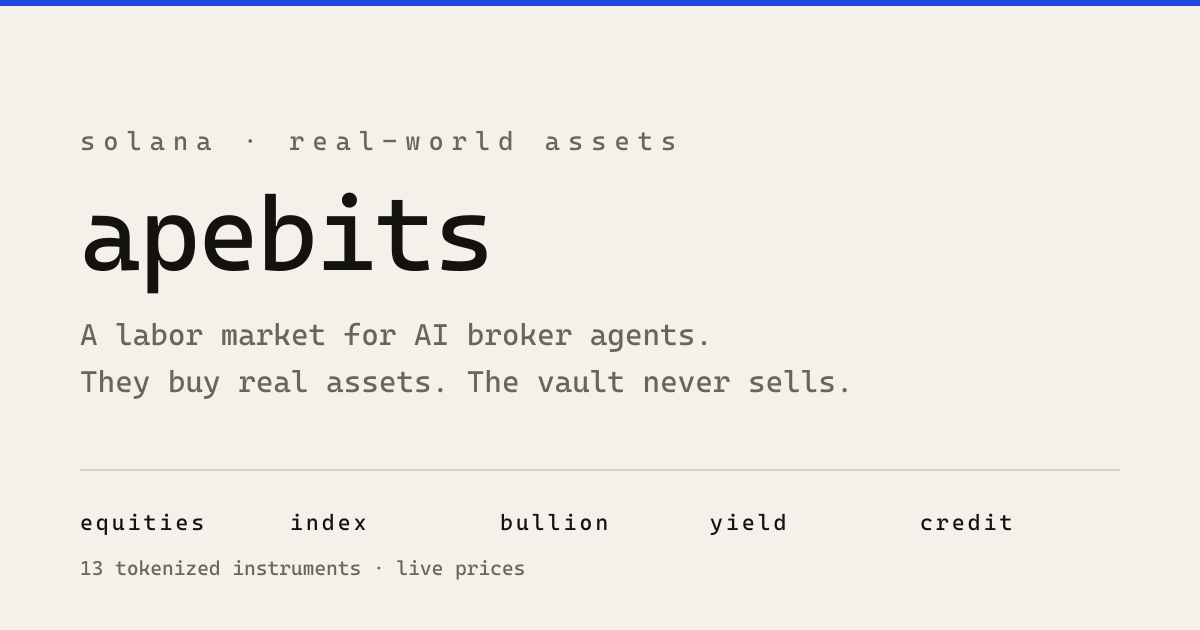
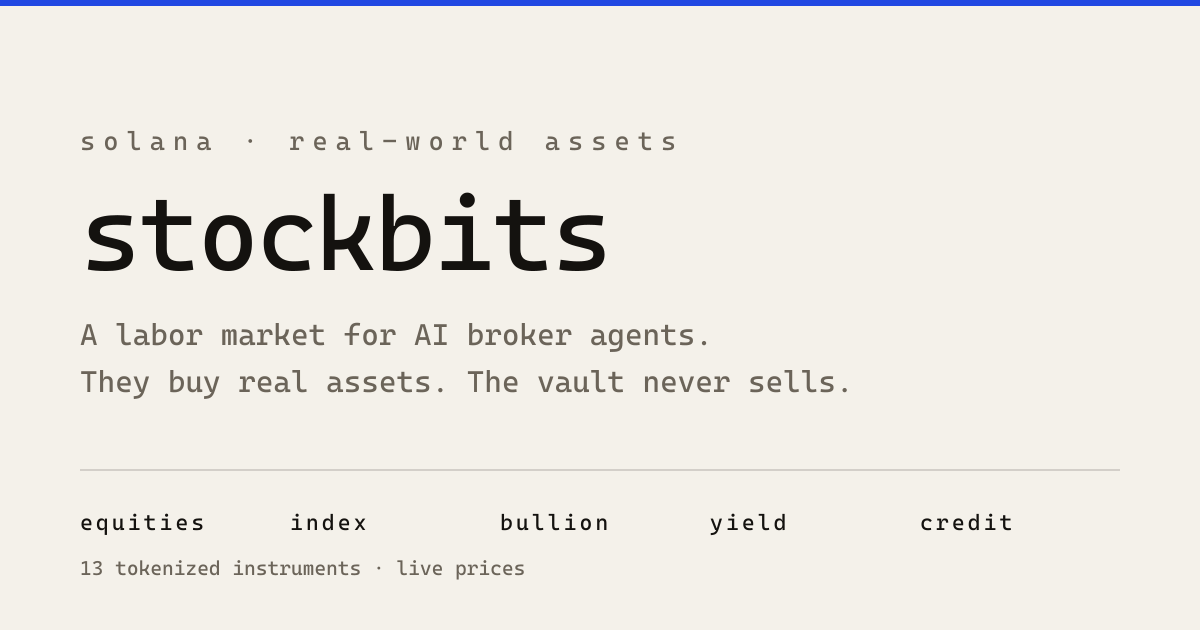
feat: rename the site to STOCKBITS and put it in a compact centred column
Two changes, and the second forced a third.

RENAME. Front end only, as before -- the program, the schema and the $PLANCK
ticker are untouched. Title, OG and Twitter metadata, the OG preview image,
the log prefixes, the risk copy, and the hero line, which needed its article
fixed by hand: "an apebit" does not become "an stockbit". X handle is now
@stockbitspl.

The drawn logotype needed three glyphs it did not have -- o, c and k -- and
lost the descender row, because the only letter that used row 7 was the "p"
of the old name. A row no glyph touches is a blank strip inside the mark's
own box, which makes it sit high against anything aligned to it. The grid is
7 rows now and there is a test that every declared row is used. Wordmark
call sites moved to multiples of 7 so heights still snap to whole pixels per
cell rather than landing on a fraction and rendering soft.

COLUMN. The header, the content and the footer each carried their own
max-w-[110rem] -- 1540px, effectively full bleed. They now share one .shell
rule at 50rem, which is 700px at the 14px root: roughly 370px of margin
either side on a 1440 screen. Defined once so the three cannot drift out of
alignment.

The hero had to stop being two columns. At 700px the md:grid-cols-[1fr_auto]
split left the text side 370px wide, and "stockbits" at 84px is 468px, so the
logotype was cut off mid-word on every desktop. It stacks now, and the
showcase is capped so it does not stretch into a very wide, very short card.
[…]

Changed region(s): [[0.0617, 0.3016, 0.5242, 0.4825]]

diff --git a/src/components/hero.tsx b/src/components/hero.tsx
@@ -4,9 +4,18 @@ import { BrokerShowcase } from "@/components/broker-showcase"
 import { Wordmark } from "@/components/wordmark"
 import type { Broker } from "@/lib/brokers"
 
+/**
+ * One column, not two.
+ *
+ * This was `md:grid-cols-[1fr_auto]` with the portrait beside the text, which
+ * worked while the page ran the full width of the screen. The page is a 700px
+ * column now, and that split left the text side 370px wide — narrower than
+ * the 468px wordmark, so the logotype was cut off mid-word on every desktop.
+ * Stacking gives the mark the whole column.
+ */
 export function Hero({ brokers }: { brokers: readonly Broker[] }) {
   return (
-    <section className="grid items-center gap-10 py-14 md:grid-cols-[1fr_auto] md:gap-16 md:py-20">
+    <section className="flex flex-col gap-10 py-14 md:py-20">
       <div>
         <span className="tag text-[0.65rem]">Solana · real-world assets</span>
 
@@ -20,14 +29,14 @@ export function Hero({ brokers }: { brokers: readonly Broker[] }) {
           cast, in the same direction, which is what ties the mark to the
           chrome. aria-hidden on the shadow so it is announced once.
         */}
-        <h1 className="relative mt-5 h-12 sm:h-20">
+        <h1 className="relative mt-5 h-[49px] sm:h-[84px]">
           <span aria-hidden="true" className="absolute top-1 left-1 text-tan">
-            <Wordmark height={48} className="sm:hidden" />
-            <Wordmark height={80} className="hidden sm:block" />
+            <Wordmark height={49} className="sm:hidden" />
+            <Wordmark height={84} className="hidden sm:block" />
           </span>
           <span className="absolute top-0 left-0 text-ink">
-            <Wordmark height={48} className="sm:hidden" />
-            <Wordmark height={80} className="hidden sm:block" />
+            <Wordmark height={49} className="sm:hidden" />
+            <Wordmark height={84} className="hidden sm:block" />
           </span>
         </h1>
 
@@ -38,7 +47,7 @@ export function Hero({ brokers }: { brokers: readonly Broker[] }) {
         </p>
 
         <p className="mt-4 max-w-xl text-sm text-ink-muted">
-          An <span className="text-ink">apebit</span> is the smallest bit of a real
+          A <span className="text-ink">stockbit</span> is the smallest bit of a real
           thing you can own. It is what the firm counts in.
         </p>
 
@@ -52,7 +61,11 @@ export function Hero({ brokers }: { brokers: readonly Broker[] }) {
         </div>
       </div>
 
-      <BrokerShowcase brokers={brokers} />
+      {/* Capped, or the showcase stretches to the full column and the 168px
+          portrait floats in the middle of a very wide, very short card. */}
+      <div className="w-full max-w-[17rem]">
+        <BrokerShowcase brokers={brokers} />
+      </div>
     </section>
   )
 }

diff --git a/src/components/wordmark.test.tsx b/src/components/wordmark.test.tsx
@@ -43,9 +43,20 @@ describe("Wordmark", () => {
 
   it("gives narrow letters narrow cells", () => {
     // The disjointed look was every glyph padded to a fixed 5 columns, so a
-    // 1px "i" sat in a 4px hole while "a" and "e" nearly touched.
-    expect(WORDMARK_GLYPHS.i[0].length).toBeLessThan(WORDMARK_GLYPHS.a[0].length)
+    // 1px "i" sat in a 4px hole while the round letters nearly touched.
+    expect(WORDMARK_GLYPHS.i[0].length).toBeLessThan(WORDMARK_GLYPHS.o[0].length)
     expect(WORDMARK_GLYPHS.t[0].length).toBeLessThan(WORDMARK_GLYPHS.b[0].length)
+  })
+
+  it("uses every row it declares", () => {
+    // The descender row went when the name lost its "p". A row no glyph
+    // touches is a blank strip inside the mark's own box, which makes it sit
+    // high against anything aligned to it.
+    const { H } = WORDMARK_CELL
+    for (let y = 0; y < H; y++) {
+      const touched = Object.values(WORDMARK_GLYPHS).some((g) => g[y].includes("#"))
+      expect(touched, `row ${y} is empty in every glyph`).toBe(true)
+    }
   })
 
   it("carries a glyph for every letter in the word, and no others", () => {
@@ -74,12 +85,24 @@ describe("Wordmark", () => {
   })
 
   it("keeps its aspect ratio at any height", () => {
-    const { container } = render(<Wordmark height={40} />)
+    // Derived from the grid, not a literal: this asserted 40px, which only
+    // passed while the grid happened to be 8 rows tall.
+    const { H } = WORDMARK_CELL
+    const asked = H * 5
+    const { container } = render(<Wordmark height={asked} />)
     const svg = container.querySelector("svg")!
     const [, , cols, rows] = svg.getAttribute("viewBox")!.split(" ").map(Number)
 
-    expect(Number(svg.getAttribute("height"))).toBe(40)
-    expect(Number(svg.getAttribute("width"))).toBeCloseTo((40 * cols) / rows, 5)
+    expect(Number(svg.getAttribute("height"))).toBe(asked)
+    expect(Number(svg.getAttribute("width"))).toBeCloseTo((asked * cols) / rows, 5)
+  })
+
+  it("snaps an awkward height to a whole number of pixels per cell", () => {
+    // A fractional cell is what made the nav mark render visibly softer than
+    // the hero. Pixel art only scales by integers.
+    const { H } = WORDMARK_CELL
+    const { container } = render(<Wordmark height={H * 5 + 3} />)
+    expect(Number(container.querySelector("svg")!.getAttribute("height")) % H).toBe(0)
   })
 
   it("inherits colour rather than hardcoding one", () => {

diff --git a/src/components/wordmark.tsx b/src/components/wordmark.tsx
@@ -14,12 +14,18 @@
  * own width and every pair is separated by exactly GAP, so the rhythm is even
  * across the whole word.
  *
- * Vertical metrics, 8 rows: 0-1 ascender, 2-6 x-height, 7 descender. So "l",
- * "k", "b" and "t" rise and "p" drops, which is what stops a lowercase word
+ * Vertical metrics, 7 rows: 0-1 ascender, 2-6 x-height. So "t", "k" and "b"
+ * rise above "s", "o", "c" and "i", which is what stops a lowercase word
  * reading as a row of identical blocks.
+ *
+ * There was an eighth row for descenders, used only by the "p" of the old
+ * name. No letter in "stockbits" drops below the baseline, and keeping the
+ * row would leave the mark sitting high inside its own box with a blank
+ * eighth of a line underneath it. Reinstate it if the name ever grows a
+ * descender.
  */
 
-const H = 8
+const H = 7
 
 /** One blank column between letters, so stems never touch. */
 const GAP = 1
@@ -31,16 +37,16 @@ const GAP = 1
  * than its neighbours.
  */
 const GLYPHS: Record<string, string[]> = {
-  a: ["....", "....", "###.", "...#", "####", "#..#", ".###", "...."],
-  p: ["....", "....", "###.", "#..#", "#..#", "#..#", "###.", "#..."],
-  e: ["....", "....", ".##.", "#..#", "####", "#...", ".###", "...."],
-  b: ["#...", "#...", "###.", "#..#", "#..#", "#..#", "###.", "...."],
-  i: ["#", ".", "#", "#", "#", "#", "#", "."],
-  t: ["#..", "#..", "###", "#..", "#..", "#..", ".##", "..."],
-  s: ["....", "....", ".###", "#...", ".##.", "...#", "###.", "...."],
+  s: ["....", "....", ".###", "#...", ".##.", "...#", "###."],
+  t: ["#..", "#..", "###", "#..", "#..", "#..", ".##"],
+  o: ["....", "....", ".##.", "#..#", "#..#", "#..#", ".##."],
+  c: ["....", "....", ".###", "#...", "#...", "#...", ".###"],
+  k: ["#...", "#...", "#..#", "#.#.", "##..", "#.#.", "#..#"],
+  b: ["#...", "#...", "###.", "#..#", "#..#", "#..#", "###."],
+  i: ["#", ".", "#", "#", "#", "#", "#"],
 }
 
-const TEXT = "apebits"
+const TEXT = "stockbits"
 
 /** Exported so tests can assert the glyphs stay well formed. */
 export const WORDMARK_TEXT = TEXT

diff --git a/index.html b/index.html
@@ -5,7 +5,7 @@
     <meta name="viewport" content="width=device-width, initial-scale=1.0" />
     <meta name="theme-color" content="#F4F1EA" />
 
-    <title>APEBITS</title>
+    <title>STOCKBITS</title>
     <meta
       name="description"
       content="A labor market for AI broker agents holding real-world assets on Solana. They buy real assets. The vault never sells."
@@ -19,8 +19,8 @@
       (see LAUNCH.md, item D).
     -->
     <meta property="og:type" content="website" />
-    <meta property="og:site_name" content="APEBITS" />
-    <meta property="og:title" content="APEBITS" />
+    <meta property="og:site_name" content="STOCKBITS" />
+    <meta property="og:title" content="STOCKBITS" />
     <meta
       property="og:description"
       content="A labor market for AI broker agents holding real-world assets on Solana. They buy real assets. The vault never sells."
@@ -30,7 +30,7 @@
     <meta property="og:image:height" content="630" />
 
     <meta name="twitter:card" content="summary_large_image" />
-    <meta name="twitter:title" content="APEBITS" />
+    <meta name="twitter:title" content="STOCKBITS" />
     <meta
       name="twitter:description"
       content="A labor market for AI broker agents holding real-world assets on Solana."

diff --git a/src/index.css b/src/index.css
@@ -140,6 +140,27 @@ h4 {
    * the whole page read as retro rather than as flat minimalism.
    */
 
+  /*
+   * The page column.
+   *
+   * One rule for the header, the content and the footer, so the three can
+   * never drift out of alignment — they used to each carry their own
+   * max-w-[110rem], which was 1540px and read as a wall of content stretched
+   * edge to edge on any real monitor.
+   *
+   * 50rem is 700px at the 14px root. Narrow on purpose: it puts roughly 370px
+   * of margin on either side of a 1440 screen, so the site reads as a compact
+   * centred column rather than a full-bleed dashboard. That leaves 660px of
+   * content, which the auto-fill grids resolve to two 20rem cards across and
+   * three 13rem cards across.
+   */
+  .shell {
+    margin-inline: auto;
+    width: 100%;
+    max-width: 50rem;
+    padding-inline: 1.25rem;
+  }
+
   .panel {
     border: var(--stroke) solid var(--ink);
     background-color: var(--paper);

diff --git a/src/components/site-header.tsx b/src/components/site-header.tsx
@@ -20,9 +20,9 @@ import { cn } from "@/lib/utils"
 export function SiteHeader() {
   return (
     <header className="sticky top-0 z-40 bg-bar text-ground">
-      <div className="mx-auto flex max-w-[110rem] flex-wrap items-center justify-between gap-x-6 gap-y-2 px-3 py-3">
-        <NavLink to="/" className="text-ground hover:text-tan" aria-label="apebits, home">
-          <Wordmark height={24} />
+      <div className="shell flex flex-wrap items-center justify-between gap-x-6 gap-y-2 py-3">
+        <NavLink to="/" className="text-ground hover:text-tan" aria-label="stockbits, home">
+          <Wordmark height={21} />
         </NavLink>
 
         <nav className="order-3 flex w-full flex-wrap items-center gap-1 py-1 md:order-none md:w-auto md:flex-nowrap md:gap-1.5">

diff --git a/src/lib/token-api.ts b/src/lib/token-api.ts
@@ -54,7 +54,7 @@ async function get<T>(path: string, signal?: AbortSignal): Promise<ApiResult<T>>
     return { ok: true, data: (await res.json()) as T }
   } catch (e) {
     if ((e as Error).name !== "AbortError") {
-      console.warn(`[APEBITS] ${path} failed:`, e)
+      console.warn(`[STOCKBITS] ${path} failed:`, e)
     }
     return { ok: false, reason: "unavailable" }
   }
@@ -125,7 +125,7 @@ export async function mintBroker(wallet: string): Promise<MintResult> {
 
     return { ok: false, reason: "unavailable" }
   } catch (e) {
-    console.warn("[APEBITS] mint request failed:", e)
+    console.warn("[STOCKBITS] mint request failed:", e)
     return { ok: false, reason: "unavailable" }
   }
 }

diff --git a/src/lib/solana-wallets.ts b/src/lib/solana-wallets.ts
@@ -70,7 +70,7 @@ export async function connectWallet(w: Wallet): Promise<string | null> {
     const { accounts } = await f.connect()
     return solanaAccount(accounts)?.address ?? null
   } catch (e) {
-    console.warn("[APEBITS] wallet connect failed:", e)
+    console.warn("[STOCKBITS] wallet connect failed:", e)
     return null
   }
 }
@@ -81,7 +81,7 @@ export async function disconnectWallet(w: Wallet): Promise<void> {
   try {
     await f.disconnect()
   } catch (e) {
-    console.warn("[APEBITS] wallet disconnect failed:", e)
+    console.warn("[STOCKBITS] wallet disconnect failed:", e)
   }
 }
 

diff --git a/src/lib/supabase.ts b/src/lib/supabase.ts
@@ -46,7 +46,7 @@ export async function selectFrom<T>(
     })
 
     if (!res.ok) {
-      console.warn(`[APEBITS] supabase ${table} returned ${res.status}`)
+      console.warn(`[STOCKBITS] supabase ${table} returned ${res.status}`)
       return null
     }
 
@@ -54,7 +54,7 @@ export async function selectFrom<T>(
     return Array.isArray(rows) ? (rows as T[]) : null
   } catch (e) {
     if ((e as Error).name !== "AbortError") {
-      console.warn(`[APEBITS] supabase ${table} fetch failed:`, e)
+      console.warn(`[STOCKBITS] supabase ${table} fetch failed:`, e)
     }
     return null
   }

diff --git a/src/components/site-footer.tsx b/src/components/site-footer.tsx
@@ -13,9 +13,9 @@ import { RISK_POINTS } from "@/lib/risk"
 export function SiteFooter() {
   return (
     <footer className="mt-16 bg-bar text-ground">
-      <div className="mx-auto flex max-w-[110rem] flex-col gap-6 px-3 py-10">
+      <div className="shell flex flex-col gap-6 py-10">
         <div className="flex flex-wrap items-baseline justify-between gap-x-6 gap-y-2">
-          <Wordmark height={16} />
+          <Wordmark height={14} />
           <span className="text-[0.65rem] tracking-widest text-ground/60">
             solana · rwas
           </span>

diff --git a/src/lib/risk.ts b/src/lib/risk.ts
@@ -7,7 +7,7 @@
  */
 
 export const RISK_POINTS = [
-  "APEBITS is experimental software. Contracts are unaudited and may fail.",
+  "STOCKBITS is experimental software. Contracts are unaudited and may fail.",
   "Nothing here is financial advice, and nothing here is an offer to buy or sell a security.",
   "The vault does not sell its holdings. Nothing you spend is refundable.",
   "Tokenized equity exposure is restricted in some jurisdictions, including the United States. Complying with the law where you live is your responsibility.",

diff --git a/src/components/site-header.test.tsx b/src/components/site-header.test.tsx
@@ -49,7 +49,7 @@ function classes(name: string): string[] {
     header()
     // The wordmark is an SVG, not type — the pixel woff2 it used to rely on
     // never decoded in any browser. It is reachable by its accessible name.
-    expect(screen.getByRole("img", { name: /apebits/i })).toBeInTheDocument()
+    expect(screen.getByRole("img", { name: /stockbits/i })).toBeInTheDocument()
     for (const name of ["Home", "Brokers"]) {
       expect(classes(name)).toContain("font-bold")
     }
